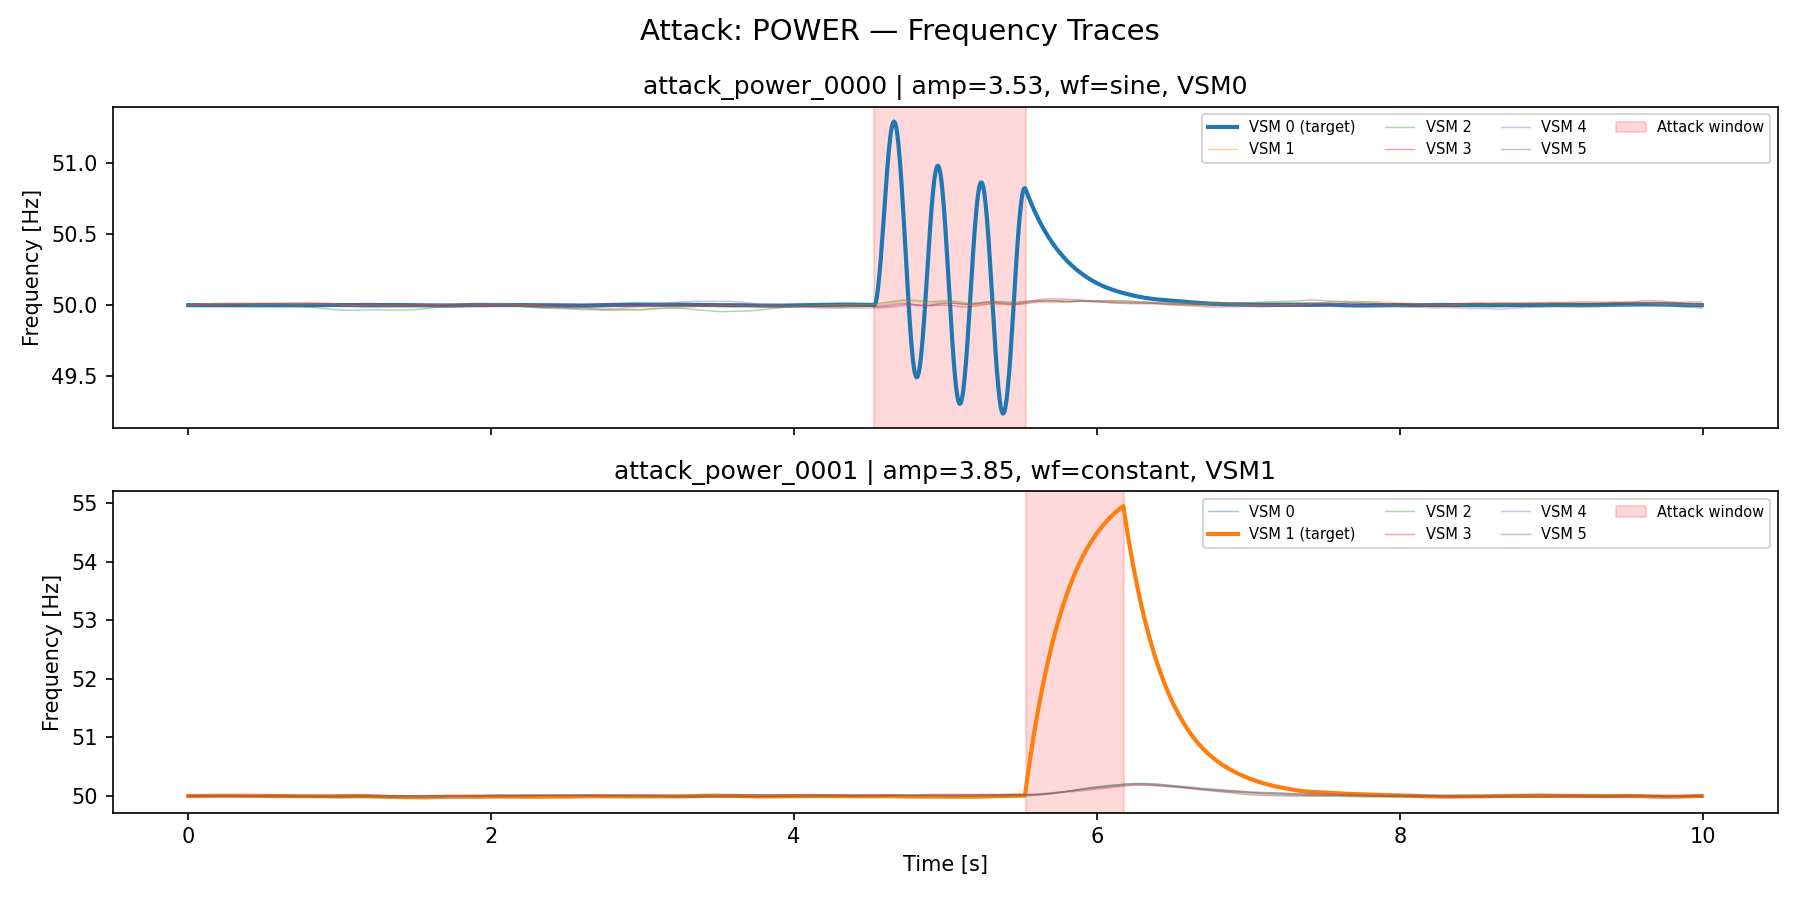
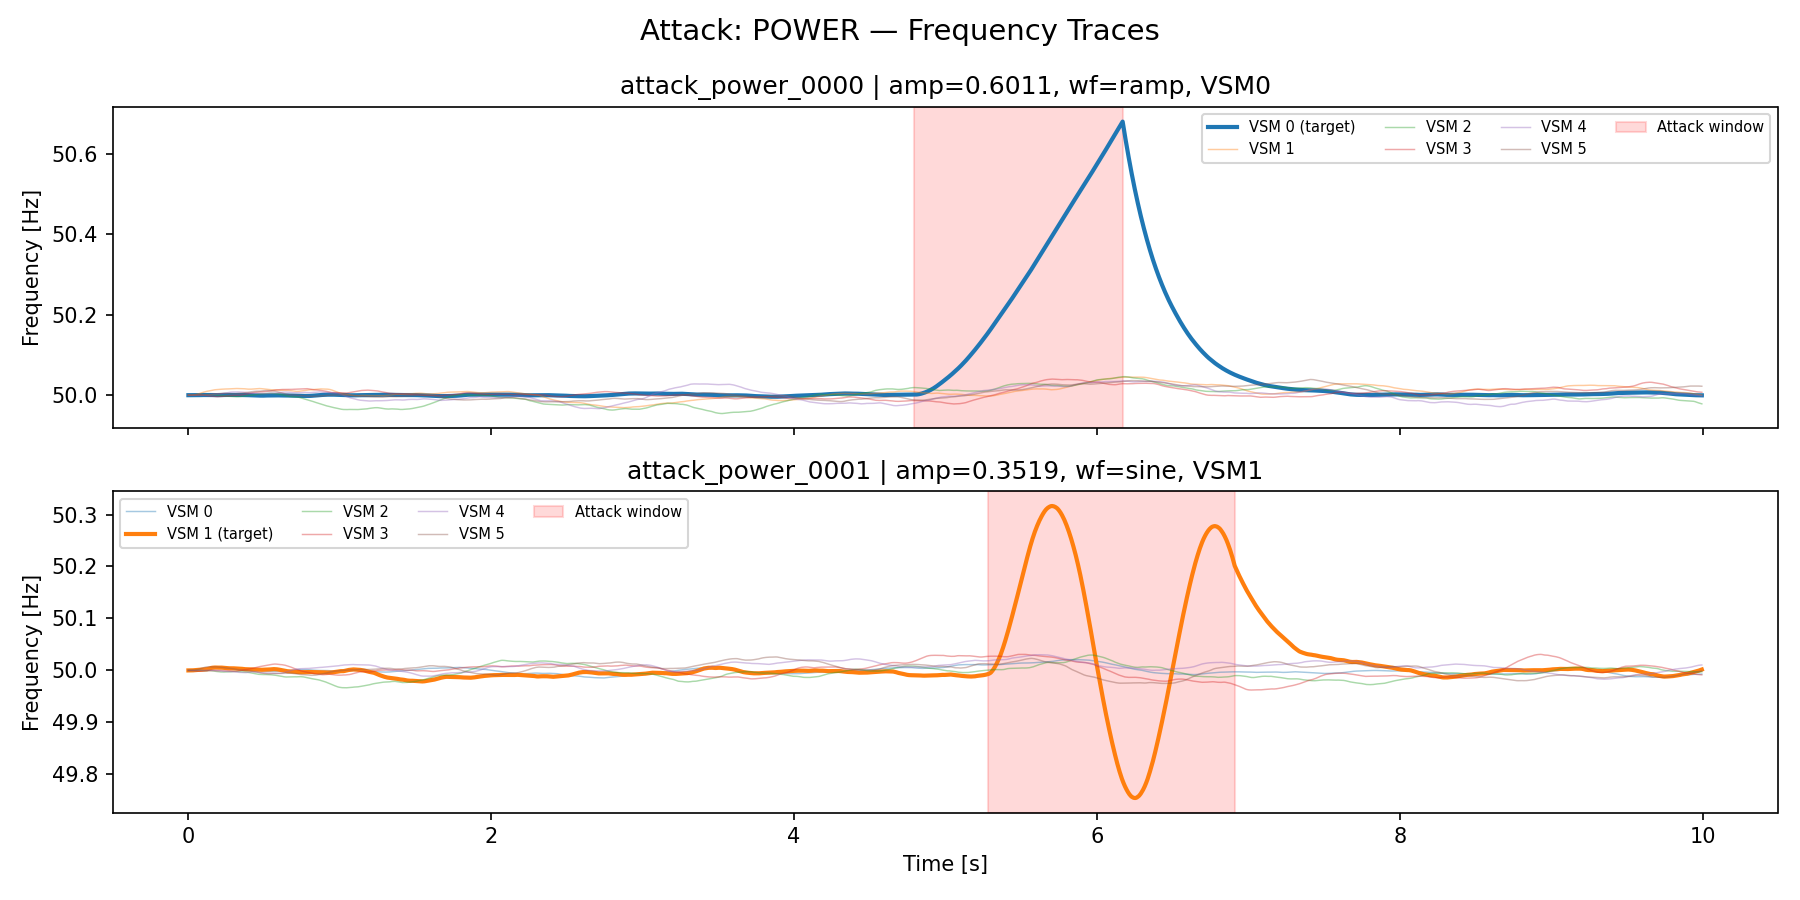
fix: power amplitude calibration

diff --git a/simulation/attack_generator.py b/simulation/attack_generator.py
@@ -4,10 +4,12 @@ attacks into VSM simulation signals.
 
 Supports 4 attack types × 4 waveforms as defined in DATASET_SPEC.md.
 
-V2 changes (TASK 04 — DATASET_FIX.md):
+V2 changes (TASK 04 — DATASET_FIX.md + Option A COI fix):
   - freq: unchanged (1-5 rad/s, SNR=1.4× — realistic)
   - power: calibrated to 1.5-4× normal_omega_std (0.285-0.76 rad/s)
-  - coi: calibrated additive bias with slow ramp (0.156-0.52 rad/s)
+  - coi: UPSTREAM spoof — corrupts VSM j's OUTGOING omega to aggregator
+         (not what j receives back). r4 at j is no longer a direct readout.
+         Other VSMs detect the inconsistency via their r4.
   - voltage: unchanged (inherently large-disturbance via controller nonlinearity)
 """
 
@@ -28,7 +30,11 @@ NORMAL_OMEGA_STD = 0.19   # per-VSM normal omega deviation std [rad/s]
 NORMAL_R4_STD    = 0.52   # normal |omega_C - omega| std [rad/s]
 
 POWER_AMP_RANGE  = (1.5 * NORMAL_OMEGA_STD, 4.0 * NORMAL_OMEGA_STD)  # 0.285–0.76
-COI_BIAS_RANGE   = (1.5 * NORMAL_R4_STD,    4.0 * NORMAL_R4_STD)     # 0.78–2.08
+# COI spoof range accounts for 1/6 dilution in 6-VSM aggregation.
+# omega_C shift at other VSMs = spoof/N_VSM, so spoof = N_VSM × target_effect.
+# target_effect = 1.5-4.0 × NORMAL_R4_STD = 0.78-2.08 rad/s
+# spoof = 6 × (0.78-2.08) = 4.68-12.48 rad/s
+COI_SPOOF_RANGE  = (6 * 1.5 * NORMAL_R4_STD,  6 * 4.0 * NORMAL_R4_STD)  # 4.68–12.48
 
 
 def generate_attack_params(
@@ -68,8 +74,8 @@ def generate_attack_params(
         # V2: calibrated to 1.5-4× normal_omega_std
         amplitude = rng.uniform(*POWER_AMP_RANGE)
     elif attack_type == "coi":
-        # V2: bias ramp amplitude calibrated to 0.3-1.0× normal_r4_std
-        amplitude = rng.uniform(*COI_BIAS_RANGE)
+        # V2 Option A: upstream spoof amplitude (same calibration range)
+        amplitude = rng.uniform(*COI_SPOOF_RANGE)
     else:
         # freq and voltage: unchanged from V1 (1-5 rad/s)
         amplitude = rng.uniform(*ATTACK_AMP_RANGE)
@@ -122,37 +128,48 @@ def compute_attack_signal(t_idx: int, params: dict) -> float:
 
 def make_attack_fn(params: dict):
     """
-    Create a closure that injects attacks into simulation signals.
+    Create injection closure(s) for one attack scenario.
 
-    Returns a function with signature: (t_idx, signals_dict) → signals_dict
-    that can be passed directly to VSMSimulator.simulate_scenario().
+    Returns
+    -------
+    (attack_fn, coi_spoof_fn) tuple:
+      - Non-COI: (callable(t_idx, signals_dict)->signals_dict, None)
+      - COI:     (None, callable(t_idx, omega_array)->omega_array)
 
-    V2: COI uses slow bias ramp instead of waveform-based additive injection.
+    Option A — COI upstream spoof:
+        coi_spoof_fn corrupts VSM j's omega BEFORE COI aggregation.
+        All other VSMs receive the corrupted omega_C.
+        r4 at VSM j is NOT a direct readout of the injected bias
+        (diluted by 5/6 of true omegas in aggregation).
+        Label stays on VSM j (the compromised node).
     """
     attack_type = params["attack_type"]
     target_vsm  = params["target_vsm"]
 
     if attack_type == "coi":
-        # ── V2: COI random walk bias ──
-        # Random walk drift applied to omega_C — unpredictable, low correlation.
-        bias_amplitude = params["amplitude"]
-        trigger_step   = params["trigger_step"]
-        end_step       = params["end_step"]
-        duration_steps = end_step - trigger_step
+        # ── Option A: COI upstream spoof ──
+        spoof_amplitude = params["amplitude"]
+        trigger_step    = params["trigger_step"]
+        end_step        = params["end_step"]
+        duration_steps  = max(end_step - trigger_step, 1)
 
-        # Pre-generate random walk, clipped to amplitude range
-        rng_walk = np.random.default_rng(hash((trigger_step, target_vsm, int(bias_amplitude * 1000))) % (2**31))
+        # Pre-generate random walk clipped to spoof_amplitude
+        rng_walk = np.random.default_rng(
+            hash((trigger_step, target_vsm, int(spoof_amplitude * 1000))) % (2**31)
+        )
         steps = rng_walk.standard_normal(duration_steps) * 0.18
-        bias = np.cumsum(steps)
-        bias = np.clip(bias, -bias_amplitude, bias_amplitude)
+        bias  = np.cumsum(steps)
+        bias  = np.clip(bias, -spoof_amplitude, spoof_amplitude)
 
-        def attack_fn(t_idx: int, signals: dict) -> dict:
+        def coi_spoof_fn(t_idx: int, omega_for_coi: np.ndarray) -> np.ndarray:
+            """Corrupt VSM j's omega BEFORE COI aggregation."""
             if trigger_step <= t_idx < end_step:
                 idx = t_idx - trigger_step
-                signals["omega_C"][target_vsm] += bias[idx]
-            return signals
+                omega_for_coi = omega_for_coi.copy()
+                omega_for_coi[target_vsm] += bias[idx]
+            return omega_for_coi
 
-        return attack_fn
+        return None, coi_spoof_fn
     else:
         # ── Standard additive injection (freq, power, voltage) ──
         SIGNAL_MAP = {
@@ -168,7 +185,7 @@ def make_attack_fn(params: dict):
                 signals[signal_key][target_vsm] += a
             return signals
 
-        return attack_fn
+        return attack_fn, None
 
 
 def get_attack_label_array(params: dict) -> np.ndarray:

diff --git a/tmp_residual_check.py b/tmp_residual_check.py
@@ -1,26 +1,119 @@
+"""
+Option A Smoke Test — COI upstream spoof.
+
+For each COI scenario:
+1. True correlation: pearsonr(injected_spoof_bias, r4 at VSM j)
+2. r4 at VSM j mean (target) during attack
+3. r4 at other VSMs mean during attack
+4. Normal r4 baseline
+
+Gate targets:
+- Correlation at VSM j < 0.70
+- r4 at other VSMs: SNR 1.5-5.0x (they are the detector)
+- r4 at VSM j: can be anything (VSM j is the compromised node, not the detector)
+"""
 import numpy as np
-from models.phi_tensor.residuals import compute_residuals_vectorized
+import sys, os
+sys.path.insert(0, os.path.dirname(os.path.abspath(__file__)))
+from scipy.stats import pearsonr
 
-d = np.load('data/vsm_0.npz')
-rec, lbl, atk = d['data'], d['labels'], d['attack_types']
+from simulation.vsm_simulator import VSMSimulator
+from simulation.attack_generator import generate_attack_params, make_attack_fn
+from configs.simulation_config import N_VSM, OMEGA_STAR, N_STEPS
 
-NAMES = {0: 'normal', 1: 'freq', 2: 'coi', 3: 'power', 4: 'voltage'}
-r_by = {k: [] for k in range(5)}
+NORMAL_R4_STD = 0.52
+N = 30
 
-for s in range(rec.shape[0]):
-    r = compute_residuals_vectorized(rec[s])
-    l, a = lbl[s, 1:], atk[s, 1:]
-    for c in range(5):
-        m = (l == 0) if c == 0 else (a == c)
-        if m.sum() > 0:
-            r_by[c].append(r[m])
+sim = VSMSimulator(seed=99)
+rng = np.random.default_rng(99)
 
-print(f"{'Type':<10} {'|r1| mean':>12} {'|r2| mean':>12} {'|r3| mean':>12} {'|r4| mean':>12}")
-print("-" * 62)
-for c, n in NAMES.items():
-    if not r_by[c]:
-        print(f"{n:<10} --- no samples ---")
+# ── Normal baseline ──
+print("Computing normal r4 baseline (10 scenarios)...")
+normal_r4 = []
+for _ in range(10):
+    rec = sim.simulate_scenario(load_factors=rng.uniform(0.8, 1.2, N_VSM))
+    if rec is not None:
+        r4 = np.abs(rec[:, :, 6] - rec[:, :, 0])
+        normal_r4.extend(r4.flatten())
+normal_r4_mean = np.mean(normal_r4)
+normal_r4_std  = np.std(normal_r4)
+print(f"  Normal r4 mean={normal_r4_mean:.4f}, std={normal_r4_std:.4f}")
+
+# ── COI Option A smoke ──
+corr_at_j     = []
+r4_at_j       = []
+r4_at_others  = []
+
+print(f"\nRunning {N} COI scenarios (Option A)...")
+for i in range(N):
+    params = generate_attack_params("coi", target_vsm=i % N_VSM, rng=rng)
+    attack_fn, coi_spoof_fn = make_attack_fn(params)
+    assert coi_spoof_fn is not None, "Expected coi_spoof_fn!"
+    assert attack_fn is None, "Expected attack_fn=None for COI!"
+
+    ts = params["trigger_step"]
+    es = params["end_step"]
+    tv = params["target_vsm"]
+    bias_amp = params["amplitude"]
+    dur = max(es - ts, 1)
+
+    # Reproduce the exact injected bias
+    rng_walk = np.random.default_rng(
+        hash((ts, tv, int(bias_amp * 1000))) % (2**31)
+    )
+    steps = rng_walk.standard_normal(dur) * 0.18
+    injected_bias = np.cumsum(steps)
+    injected_bias = np.clip(injected_bias, -bias_amp, bias_amp)
+
+    rec = sim.simulate_scenario(
+        load_factors=rng.uniform(0.8, 1.2, N_VSM),
+        attack_fn=None,
+        coi_spoof_fn=coi_spoof_fn,
+    )
+    if rec is None or (es - ts) < 5:
         continue
-    v = np.concatenate(r_by[c])
-    m = np.mean(np.abs(v), axis=0)
-    print(f"{n:<10} {m[0]:>12.6f} {m[1]:>12.6f} {m[2]:>12.6f} {m[3]:>12.6f}")
+
+    # r4 at VSM j (target)
+    omega_j  = rec[ts:es, tv, 0]
+    omegaC_j = rec[ts:es, tv, 6]
+    r4_j     = np.abs(omegaC_j - omega_j)
+    r4_at_j.append(r4_j.mean())
+
+    # r4 at other VSMs
+    other_vsms = [v for v in range(N_VSM) if v != tv]
+    r4_others = []
+    for v in other_vsms:
+        r4_v = np.abs(rec[ts:es, v, 6] - rec[ts:es, v, 0])
+        r4_others.append(r4_v.mean())
+    r4_at_others.append(np.mean(r4_others))
+
+    # True correlation at VSM j
+    r4_j_signed = omegaC_j - omega_j
+    if len(injected_bias) == len(r4_j_signed) and len(injected_bias) > 2:
+        r, _ = pearsonr(injected_bias, r4_j_signed)
+        corr_at_j.append(r)
+
+print("\n" + "=" * 60)
+print("OPTION A SMOKE TEST RESULTS")
+print("=" * 60)
+
+avg_corr_j      = np.mean(corr_at_j) if corr_at_j else float('nan')
+avg_r4_j        = np.mean(r4_at_j) if r4_at_j else 0
+avg_r4_others   = np.mean(r4_at_others) if r4_at_others else 0
+snr_j           = avg_r4_j / NORMAL_R4_STD
+snr_others      = avg_r4_others / NORMAL_R4_STD
+
+print(f"  Injection-r4 correlation at VSM j: {avg_corr_j:.4f}")
+print(f"  r4 at VSM j (target):  mean={avg_r4_j:.4f}, SNR={snr_j:.2f}x")
+print(f"  r4 at other VSMs:      mean={avg_r4_others:.4f}, SNR={snr_others:.2f}x")
+
+print("\n  Gate checks:")
+g1 = avg_corr_j < 0.70
+g2 = 1.5 <= snr_others <= 5.0
+print(f"  Correlation at j < 0.70: {avg_corr_j:.4f} → {'✅ PASS' if g1 else '❌ FAIL'}")
+print(f"  SNR at other VSMs 1.5-5.0x: {snr_others:.2f}x → {'✅ PASS' if g2 else '❌ FAIL'}")
+
+if g1 and g2:
+    print("\n  ALL GATES PASSED ✅ — Option A is working correctly")
+else:
+    print("\n  GATES FAILED ❌")

diff --git a/simulation/vsm_simulator.py b/simulation/vsm_simulator.py
@@ -4,6 +4,12 @@ vsm_simulator.py — Core Euler-integration simulator for 6 VSMs on IEEE 39-bus.
 Implements the swing equation, COI computation, and simplified voltage/power
 models from PHYSICS_SPEC.md using forward Euler discretisation.
 
+V2 note (Option A COI fix): simulate_scenario accepts an optional coi_spoof_fn
+that runs BEFORE COI aggregation. This lets the COI attack corrupt VSM j's
+outgoing omega contribution to the aggregator, rather than what j receives back.
+Result: all other VSMs detect the inconsistency via their r4, while VSM j's
+own r4 is not a direct readout of the injected bias.
+
 Unit convention:
   - Frequency: ω in rad/s (SI), normalised internally for swing equation
   - Power: p.u. on 100 MVA base
@@ -67,14 +73,19 @@ class VSMSimulator:
         self,
         load_factors: np.ndarray | None = None,
         attack_fn=None,
+        coi_spoof_fn=None,
     ) -> np.ndarray:
         """
         Run one 10-second scenario.
 
         Parameters
         ----------
-        load_factors : (N_VSM,) array of p.u. load multipliers, or None for random.
-        attack_fn : callable(t_idx, signals_dict) → signals_dict  or None.
+        load_factors  : (N_VSM,) array of p.u. load multipliers, or None for random.
+        attack_fn     : callable(t_idx, signals_dict) → signals_dict  or None.
+                        Applied AFTER COI aggregation (freq, power, voltage attacks).
+        coi_spoof_fn  : callable(t_idx, omega_array) → omega_array  or None.
+                        Applied BEFORE COI aggregation. Used for COI attacks to
+                        corrupt VSM j's outgoing omega without touching local state.
 
         Returns
         -------
@@ -104,8 +115,16 @@ class VSMSimulator:
 
         for t in range(N_STEPS):
             p_load = p_load_dynamic[t]
-            # ── COI frequency (Eq. 3) — from true state ──
-            omega_C_true = self._compute_coi(omega)
+
+            # ── COI spoof (pre-aggregation, Option A COI attack) ──
+            # If a coi_spoof_fn is provided, corrupt the omega array used
+            # for COI aggregation only. True physical omega is unchanged.
+            omega_for_coi = omega.copy()
+            if coi_spoof_fn is not None:
+                omega_for_coi = coi_spoof_fn(t, omega_for_coi)
+
+            # ── COI frequency (Eq. 3) — from (possibly spoofed) state ──
+            omega_C_true = self._compute_coi(omega_for_coi)
 
             # ── Electrical power output (physical) ──
             # P_e = P_load * (V/V_nom)² + K_droop * (ω - ω*) / ω*

diff --git a/simulation/generate_dataset.py b/simulation/generate_dataset.py
@@ -85,11 +85,13 @@ def generate_attack_scenarios(n: int, seed: int = 1000) -> list[dict]:
             target_vsm = type_count % N_VSM
 
             params = generate_attack_params(atype, target_vsm=target_vsm, rng=rng)
-            attack_fn = make_attack_fn(params)
+            attack_fn, coi_spoof_fn = make_attack_fn(params)
 
             load_factors = rng.uniform(*LOAD_RANGE, size=N_VSM)
             recording = sim.simulate_scenario(
-                load_factors=load_factors, attack_fn=attack_fn
+                load_factors=load_factors,
+                attack_fn=attack_fn,
+                coi_spoof_fn=coi_spoof_fn,
             )
 
             if recording is None:
